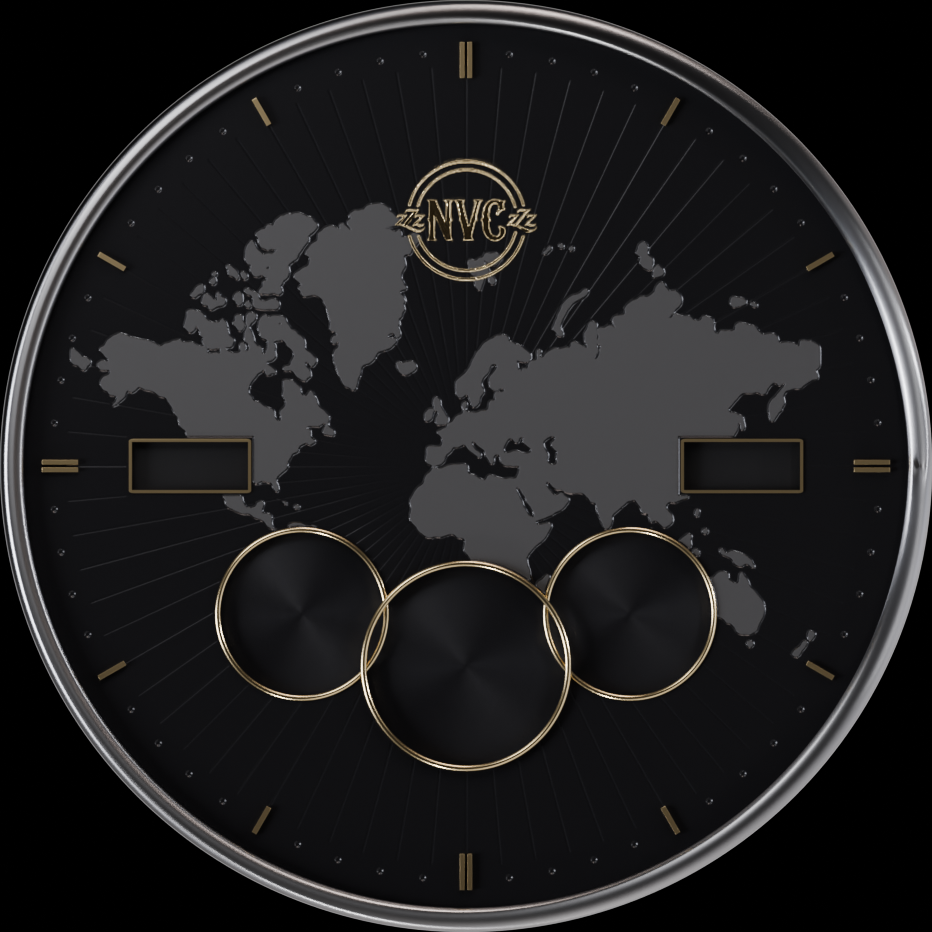
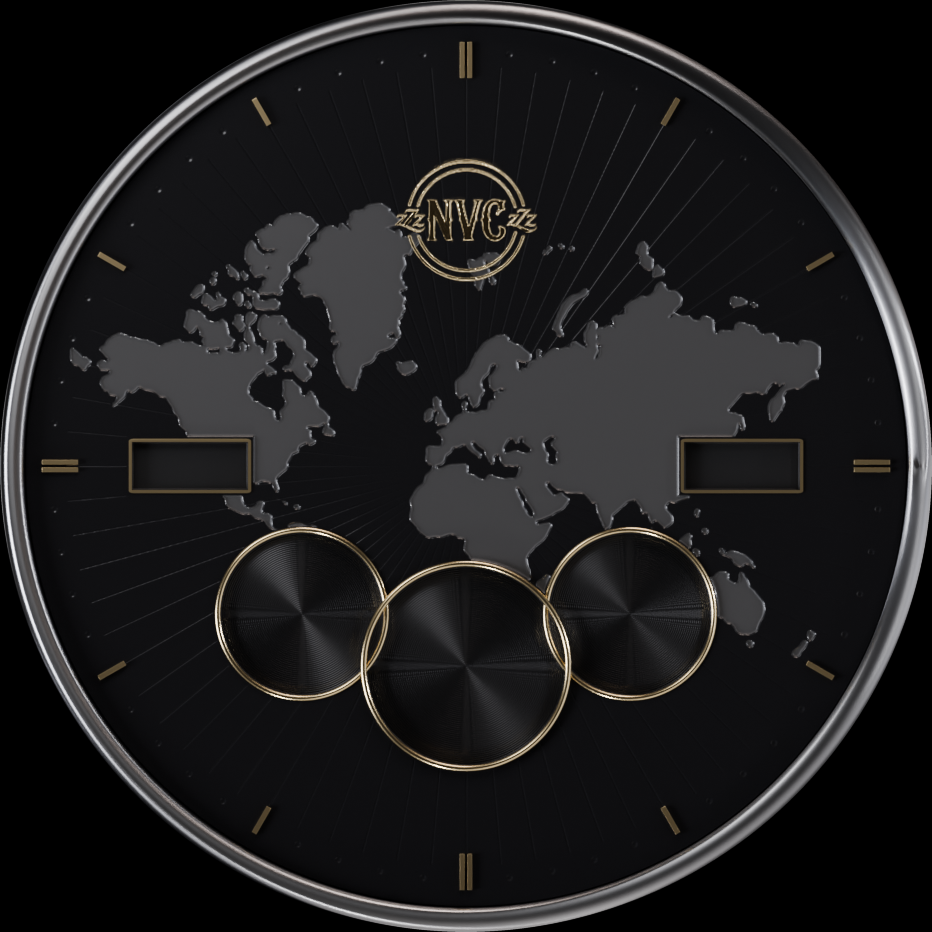
feat: Blender-rendered background and 3D hands with drop shadows

diff --git a/art/blender/current.py b/art/blender/current.py
@@ -29,37 +29,68 @@ WHITE = wk.simple("white", **{"Base Color": (0.90, 0.89, 0.86, 1), "Metallic": 0
 
 BEZEL = wk.finish_material("bezel", {"Base Color": (0.42, 0.42, 0.44, 1), "Metallic": 1.0, "Roughness": 0.32,
                                      "Anisotropic": 0.85}, radial_tangent=True)
-# satin black dial; milled continents are lighter, bead-blasted (2026-11-23: map must read on the watch)
-DIAL = wk.finish_material(
-    "dial", {"Base Color": (0.03, 0.03, 0.034, 1), "Metallic": 0.5, "Roughness": 0.28, "Coat Weight": 0.3,
-             "Coat Roughness": 0.08},
-    height=wk.BUILD / "current_height.png", height_strength=1.0, height_distance=0.35,
-    inlay=(wk.BUILD / "current_land.png", {"Base Color": (0.11, 0.11, 0.115, 1), "Metallic": 0.5,
-                                            "Roughness": 0.62}))
+# ---- dial: one dense grid displaced by the height map (real milled walls, sunk sub-dials and
+# windows), materials split by projected masks
+import bpy  # noqa: E402
+
+
+def dial_material():
+    mat = bpy.data.materials.new("dial")
+    n, l = wk.nodes_of(mat)
+    out = n.new("ShaderNodeOutputMaterial")
+    satin = wk.principled(n, **{"Base Color": (0.028, 0.028, 0.032, 1), "Metallic": 0.5, "Roughness": 0.27,
+                                "Coat Weight": 0.3, "Coat Roughness": 0.08})
+    # milled floor: bead-blasted, lighter than the satin ocean (2026-11-23: the map must read)
+    blast = wk.principled(n, **{"Base Color": (0.10, 0.10, 0.105, 1), "Metallic": 0.55, "Roughness": 0.6})
+    snail = wk.principled(n, **{"Base Color": (0.075, 0.075, 0.08, 1), "Metallic": 0.85, "Roughness": 0.22})
+    hole = wk.principled(n, **{"Base Color": (0.015, 0.015, 0.017, 1), "Roughness": 0.5})
+    sn = wk.projected(n, l, wk.BUILD / "current_snail.png", "Non-Color")
+    bump = n.new("ShaderNodeBump")
+    bump.inputs["Strength"].default_value = 0.8
+    bump.inputs["Distance"].default_value = 0.02
+    l.new(sn.outputs["Color"], bump.inputs["Height"])
+    l.new(bump.outputs["Normal"], snail.inputs["Normal"])
+    shader = satin.outputs["BSDF"]
+    for mask, other in (("current_land.png", blast), ("current_wells.png", snail), ("current_windows.png", hole)):
+        m = wk.projected(n, l, wk.BUILD / mask, "Non-Color")
+        mx = n.new("ShaderNodeMixShader")
+        l.new(m.outputs["Color"], mx.inputs["Fac"])
+        l.new(shader, mx.inputs[1])
+        l.new(other.outputs["BSDF"], mx.inputs[2])
+        shader = mx.outputs["Shader"]
+    l.new(shader, out.inputs["Surface"])
+    return mat
+
+
+bpy.ops.mesh.primitive_grid_add(x_subdivisions=1400, y_subdivisions=1400, size=wk.SIZE, location=(0, 0, 0))
+dial = bpy.context.active_object
+dial.name = "dial"
+tex = bpy.data.textures.new("height", "IMAGE")
+tex.image = bpy.data.images.load(str(wk.BUILD / "current_height.png"))
+tex.image.colorspace_settings.name = "Non-Color"
+tex.extension = "EXTEND"
+disp = dial.modifiers.new("milling", "DISPLACE")
+disp.texture = tex
+disp.texture_coords = "UV"
+disp.direction = "Z"
+disp.mid_level = 1.0
+disp.strength = 0.6
+bpy.ops.object.shade_smooth()
+dial.data.materials.append(dial_material())
 
 # bezel
 wk.lathe("bezel", [(220.6, 0.05), (221.3, 0.45), (223.5, 0.70), (229.5, 0.66), (232.6, 0.35), (233, 0.0),
                    (233, -1.0)], BEZEL)
 
-# dial with the sub-dials and windows cut out
-dial = wk.cylinder("dial", 0, 0, 220.6, -0.3, 0.0, DIAL, verts=256)
 CENTER = (0.0, 100.0, 50.0, 52.4)
 SIDES = [(-82.0, 74.0, 41.0, 43.2), (82.0, 74.0, 41.0, 43.2)]
 for i, (x, y, r, ro) in enumerate(SIDES + [CENTER]):
-    nm = f"sub{i}"
-    wk.boolean_cut(dial, wk.cylinder("cut_" + nm, x, y, r, -1, 1, BLACK))
-    z = -0.45 if i < 2 else -0.40
-    wk.cylinder("floor_" + nm, x, y, r + 0.5, z - 0.2, z, wk.snail_material(
-        "floor_" + nm, {"Base Color": (0.035, 0.035, 0.04, 1), "Metallic": 0.6, "Roughness": 0.3},
-        wk.BUILD / "empty.png", scale=20))
     # gold rims; the centre one sits higher so it crosses over the side ones (design §5.3)
-    wk.torus("rim_" + nm, x, y, (r + ro) / 2, (ro - r) / 20 + 0.03, 0.22 if i == 2 else 0.0, GOLD_POL)
+    wk.torus(f"rim{i}", x, y, (r + ro) / 2, (ro - r) / 20 + 0.03, 0.22 if i == 2 else 0.0, GOLD_POL)
 
 for i, (x, y) in enumerate([(138.0, 0.0), (-138.0, 0.0)]):
-    wk.boolean_cut(dial, wk.box(f"cut_win{i}", x, y, 58, 24, -1, 1, 0, BLACK, bevel=0))
     fr = wk.box(f"win_frame{i}", x, y, 61.2, 27.2, -0.02, 0.08, 0, GOLD, bevel=0.04)
     wk.boolean_cut(fr, wk.box(f"cut_frame{i}", x, y, 58, 24, -1, 1, 0, BLACK, bevel=0))
-    wk.box(f"win_floor{i}", x, y, 60, 26, -0.5, -0.4, 0, WIN_FLOOR, bevel=0)
 
 # gold indices: double bars at 12, 3, 6 and 9; single bars elsewhere
 for h in range(12):

diff --git a/art/blender/make_prints.py b/art/blender/make_prints.py
@@ -215,7 +215,14 @@ def nocturne(out: Path):
 
 
 def current(out: Path):
-    """Height and material masks of the installed face (same geometry as art/render_bg.py)."""
+    """Displacement and material masks of the installed face (geometry of art/render_bg.py).
+
+    current_height.png (16 bit): displacement in Blender units, encoded as 1 + H / 0.6
+      (1.0 = dial surface). Continents milled 0.10, rays 0.025, minute dots 0.04, sub-dials and
+      windows sunk 0.40, outside the dial 0.6.
+    current_land.png, current_wells.png, current_windows.png: material masks.
+    current_snail.png: concentric snailing of each sub-dial floor (bump).
+    """
     import numpy as np
     S = rb.S
     assert S == N
@@ -229,21 +236,42 @@ def current(out: Path):
     land *= np.clip((216.0 - rr) / 1.0 + 0.5, 0, 1)
     _, y_cut = rb.proj(0.0, rb.LAT_CUT)
     land *= np.clip((float(y_cut) - yy) / 0.5, 0, 1)
+
+    def soft(mask, px=0.35):
+        return np.clip(mask, 0, 1)
+
+    wells = np.zeros_like(land)
+    for cx, cy, r, ro in rb.WELLS:
+        wells = np.maximum(wells, np.clip((r - np.hypot(xx - cx, yy - cy)) * K / 2 + 0.5, 0, 1))
     covers = np.zeros_like(land)
-    for cx, cy, _r, ro in rb.WELLS:
-        covers = np.maximum(covers, (np.hypot(xx - cx, yy - cy) < ro + 1.0).astype(np.float32))
+    for cx, cy, r, ro in rb.WELLS:
+        covers = np.maximum(covers, np.clip((ro + 1.0 - np.hypot(xx - cx, yy - cy)) * K / 2 + 0.5, 0, 1))
+    wins = np.zeros_like(land)
     for cx, cy in rb.WINDOWS:
-        covers = np.maximum(covers, ((np.abs(xx - cx) < rb.WIN_W / 2 + 3) & (np.abs(yy - cy) < rb.WIN_H / 2 + 3))
-                            .astype(np.float32))
+        dx = np.abs(xx - cx) - rb.WIN_W / 2
+        dy = np.abs(yy - cy) - rb.WIN_H / 2
+        wins = np.maximum(wins, np.clip(-np.maximum(dx, dy) * K / 2 + 0.5, 0, 1))
+        covers = np.maximum(covers, np.clip(-np.maximum(dx - 3, dy - 3) * K / 2 + 0.5, 0, 1))
     land_v = land * (1 - covers)
     rays = rb.raster(rb.draw_rays)
     fade = np.clip((rr - 24.0) / 40.0, 0, 1) * np.clip((203.0 - rr) / 2.0, 0, 1)
     rays_v = rays * fade * (1 - np.clip(land * 1.5, 0, 1)) * (1 - covers)
     dots = rb.raster(rb.draw_dots)
-    # milled continents (deep), engraved rays and minute dots (shallow); 0.5 = dial surface
-    height = 0.5 - 0.45 * rb.gauss(land_v, 0.5 * K) - 0.12 * rb.gauss(rays_v, 0.15 * K) - 0.2 * rb.gauss(dots, 0.2 * K)
-    Image.fromarray((np.clip(height, 0, 1) * 65535).astype(np.uint16)).save(out / "current_height.png")
+    inside = np.clip((220.6 - rr) * K / 2 + 0.5, 0, 1)
+
+    H = (-0.10 * rb.gauss(land_v, 0.35 * K) - 0.025 * rays_v - 0.04 * rb.gauss(dots, 0.15 * K)
+         - 0.40 * np.maximum(wells, wins))
+    H = H * inside - 0.6 * (1 - inside)
+    enc = np.clip(1 + H / 0.6, 0, 1)
+    Image.fromarray((enc * 65535).astype(np.uint16)).save(out / "current_height.png")
     Image.fromarray((np.clip(land_v, 0, 1) * 255).astype(np.uint8), "L").save(out / "current_land.png")
+    Image.fromarray((np.clip(wells, 0, 1) * 255).astype(np.uint8), "L").save(out / "current_wells.png")
+    Image.fromarray((np.clip(wins, 0, 1) * 255).astype(np.uint8), "L").save(out / "current_windows.png")
+    snail = np.zeros_like(land)
+    for cx, cy, r, ro in rb.WELLS:
+        d = np.hypot(xx - cx, yy - cy)
+        snail = np.where(d < r + 1, 0.5 + 0.5 * np.sin(2 * math.pi * d / 1.0), snail)
+    Image.fromarray((snail * 255).astype(np.uint8), "L").save(out / "current_snail.png")
 
 
 if __name__ == "__main__":

diff --git a/art/render_preview.py b/art/render_preview.py
@@ -1,32 +1,39 @@
-"""Compose the watch face picker preview (466x466): background plus hands at 10:08:32.
+"""Compose the watch face picker preview (466x466): 3D background, 3D hands with shadows at 10:08:32.
 
 Usage: python art/render_preview.py <art_out_dir> <preview.png>
+Uses bg_3d.png and hand3d_*.png from scripts/render_3d.sh (placement in hand3d_placement.json).
 """
 from __future__ import annotations
 
+import json
 import sys
 from pathlib import Path
 
 from PIL import Image
 
-sys.path.insert(0, str(Path(__file__).resolve().parent))
-from render_hands import HANDS  # noqa: E402
-
 CENTER = 466  # 2x px
-ANGLES = {"hand_hour": (10 + 8 / 60) * 30, "hand_minute": (8 + 32 / 60) * 6, "hand_second": 32 * 6}
+ANGLES = {"hour": (10 + 8 / 60) * 30, "minute": (8 + 32 / 60) * 6, "second": 32 * 6}
+SHADOW_OFFSET = (2, 3)  # watch px, same as the shadow clock in watchface.xml
 
 
 def render_preview(art: Path, out: Path) -> Path:
-    im = Image.open(art / "bg_bajo.png").convert("RGBA")
-    for name, angle in ANGLES.items():
-        hand = Image.open(art / f"{name}.png").convert("RGBA")
-        g = HANDS[name]
+    im = Image.open(art / "bg_3d.png").convert("RGBA")
+    placement = json.loads((art / "hand3d_placement.json").read_text())
+
+    def put(name, angle, suffix="", dx=0, dy=0):
+        hand = Image.open(art / f"hand3d_{name}{suffix}.png").convert("RGBA")
         w, h = hand.size
+        pivot = round(placement[name]["pivot_y"] * h)
         canvas = Image.new("RGBA", (2 * h, 2 * h), (0, 0, 0, 0))
-        canvas.paste(hand, (h - w // 2, h - g["pivot_px"]))
+        canvas.paste(hand, (h - w // 2, h - pivot))
         canvas = canvas.rotate(-angle, resample=Image.BICUBIC)
-        im.alpha_composite(canvas, (CENTER - h, CENTER - h))
-    cap = Image.open(art / "hand_cap.png").convert("RGBA")
+        im.alpha_composite(canvas, (CENTER - h + dx * 2, CENTER - h + dy * 2))
+
+    for name, angle in ANGLES.items():
+        put(name, angle, "_shadow", *SHADOW_OFFSET)
+    for name, angle in ANGLES.items():
+        put(name, angle)
+    cap = Image.open(art / "hand3d_cap.png").convert("RGBA")
     im.alpha_composite(cap, (CENTER - cap.width // 2, CENTER - cap.height // 2))
     im.resize((466, 466), Image.LANCZOS).convert("RGB").save(out, compress_level=9)
     return out

diff --git a/art/blender/hands.py b/art/blender/hands.py
@@ -1,0 +1,45 @@
+"""Render the gold hands of the installed face in 3D, one by one, pointing at 12 on a transparent film.
+
+  blender -b -P art/blender/hands.py -- <out_dir> [samples]
+
+Writes <out_dir>/raw_<name>.png (932x932, 2 px per watch px, pivot at the image centre).
+art/blender/cut_hands.py then crops them into watch face sprites.
+"""
+import sys
+from pathlib import Path
+
+import bpy
+
+sys.path.insert(0, str(Path(__file__).resolve().parent))
+import watchkit as wk  # noqa: E402
+
+argv = sys.argv[sys.argv.index("--") + 1:] if "--" in sys.argv else []
+OUT = Path(argv[0]) if argv else wk.BUILD / "hands"
+SAMPLES = int(argv[1]) if len(argv) > 1 else 128
+
+# hand geometry (units: 10 watch px). Reach from the design (§5.4): hour 117, minute 177, second 189
+SPECS = {
+    "hour": dict(length=11.7, tail=1.6, w_base=1.25, w_tip=0.30, z=0.45, thick=0.12),
+    "minute": dict(length=17.7, tail=2.0, w_base=0.95, w_tip=0.22, z=0.60, thick=0.10),
+    "second": dict(length=18.9, tail=2.9, w_base=0.18, w_tip=0.10, z=0.78, thick=0.02),
+}
+
+for name, g in SPECS.items():
+    wk.setup(SAMPLES, world_strength=0.8, key_energy=16000)
+    wk.scene.render.film_transparent = True
+    gold = wk.simple("gold_pol", **{"Base Color": (0.97, 0.79, 0.48, 1), "Metallic": 1.0, "Roughness": 0.24})
+    white = wk.simple("white", **{"Base Color": (0.90, 0.89, 0.86, 1), "Metallic": 0.6, "Roughness": 0.25})
+    mat = white if name == "second" else gold
+    wk.hand(name, 0.0, g["length"], g["tail"], g["w_base"], g["w_tip"], g["z"], g["thick"], mat)
+    if name == "second":
+        wk.torus("sec_ring", 0, 33, 4.2, 0.06, g["z"] + 0.01, white)  # counterweight ring, 33 px behind
+    wk.render(OUT / f"raw_{name}.png")
+
+# centre cap: gold ring with a dark centre
+wk.setup(SAMPLES, world_strength=0.8, key_energy=16000)
+wk.scene.render.film_transparent = True
+gold = wk.simple("gold_pol", **{"Base Color": (0.97, 0.79, 0.48, 1), "Metallic": 1.0, "Roughness": 0.24})
+black = wk.simple("black", **{"Base Color": (0.01, 0.01, 0.012, 1), "Roughness": 0.4})
+wk.cylinder("cap", 0, 0, 7.0, 0.80, 0.92, gold, verts=64)
+wk.cylinder("cap_in", 0, 0, 5.2, 0.92, 0.95, black, verts=64)
+wk.render(OUT / "raw_cap.png")

diff --git a/art/blender/cut_hands.py b/art/blender/cut_hands.py
@@ -1,0 +1,49 @@
+"""Crop the 3D hand renders into watch face sprites and make their drop shadows.
+
+  python art/blender/cut_hands.py <raw_dir> <out_dir>
+
+For each hand writes hand3d_<name>.png and hand3d_<name>_shadow.png (2x, pointing up, pivot on
+the vertical centre line) and prints the WFF placement: x, y, width, height, pivotY.
+Width is an even integer so x lands on a pixel (WFF hand x/y are integers).
+"""
+import json
+import sys
+from pathlib import Path
+
+from PIL import Image, ImageFilter
+
+SCALE = 2
+CENTRE = 466  # pivot in the 932 px raw render
+SHADOW_BLUR = 3.0  # 2x px
+SHADOW_ALPHA = 0.55
+
+
+def cut(raw: Path, out: Path, name: str) -> dict:
+    im = Image.open(raw / f"raw_{name}.png").convert("RGBA")
+    a = im.getchannel("A")
+    l, t, r, b = a.point(lambda v: 255 if v > 4 else 0).getbbox()
+    pad = 8  # room for the shadow blur
+    half = max(CENTRE - l, r - CENTRE) + pad
+    half += half % 2  # even
+    top, bottom = max(t - pad, 0), min(b + pad, im.height)
+    box = (CENTRE - half, top, CENTRE + half, bottom)
+    sprite = im.crop(box)
+    if (sprite.height % 2):
+        sprite = im.crop((box[0], box[1], box[2], box[3] + 1))
+    sprite.save(out / f"hand3d_{name}.png", optimize=True)
+    alpha = sprite.getchannel("A").filter(ImageFilter.GaussianBlur(SHADOW_BLUR))
+    shadow = Image.new("RGBA", sprite.size, (0, 0, 0, 0))
+    shadow.putalpha(alpha.point(lambda v: round(v * SHADOW_ALPHA)))
+    shadow.save(out / f"hand3d_{name}_shadow.png", optimize=True)
+    w, h = sprite.size[0] // SCALE, sprite.size[1] // SCALE
+    pivot_px = CENTRE - top
+    return dict(x=233 - w // 2, y=233 - pivot_px // SCALE, width=w, height=h,
+                pivot_y=round(pivot_px / sprite.size[1], 6))
+
+
+if __name__ == "__main__":
+    raw, out = Path(sys.argv[1]), Path(sys.argv[2])
+    out.mkdir(parents=True, exist_ok=True)
+    placement = {n: cut(raw, out, n) for n in ("hour", "minute", "second", "cap")}
+    (raw / "placement.json").write_text(json.dumps(placement, indent=2))
+    print(json.dumps(placement, indent=2))

diff --git a/CLAUDE.md b/CLAUDE.md
@@ -34,8 +34,12 @@ Ciclo completo: `scripts/watch.sh "<serial>" all <nombre-captura>`. Serial del r
 1. **Nada se da por bueno sin probarlo en el reloj real.** Compilar no basta: instalar,
    seleccionar la esfera, capturar con `adb exec-out screencap -p` y comparar con la maqueta.
    Di siempre dónde se probó y qué queda pendiente.
-2. **El fondo no se retoca a mano.** Sale de `art/render_bg.py`; cualquier cambio va en el script
-   y se regenera. Es determinista: la misma entrada da el mismo PNG byte a byte.
+2. **El arte no se retoca a mano.** Desde el 2026-11-23 el fondo y las agujas activas salen de
+   Blender: `scripts/render_3d.sh` (escenas en `art/blender/`, Blender portátil en
+   `C:\Users\criso\Apps\blender-5.3.0-windows-x64\`, entorno HDRI de Poly Haven CC0 en
+   `C:\Users\criso\.claude\tools\blender\hdri\`). Es determinista: se comprobó que dos renders
+   dan los mismos bytes. `art/render_bg.py` sigue dando el logo, el modo ambiente y el fondo 2D
+   anterior (`bg_bajo`). Cualquier cambio va en los scripts y se regenera.
 3. **No inventes nombres de WFF.** Elementos, atributos y fuentes de datos se comprueban en la
    documentación oficial de Watch Face Format antes de usarlos. Los *tags* de Watch Face Studio
    (`[BATT_PER]`, `[DAY_1_31]`…) no son los de WFF.
